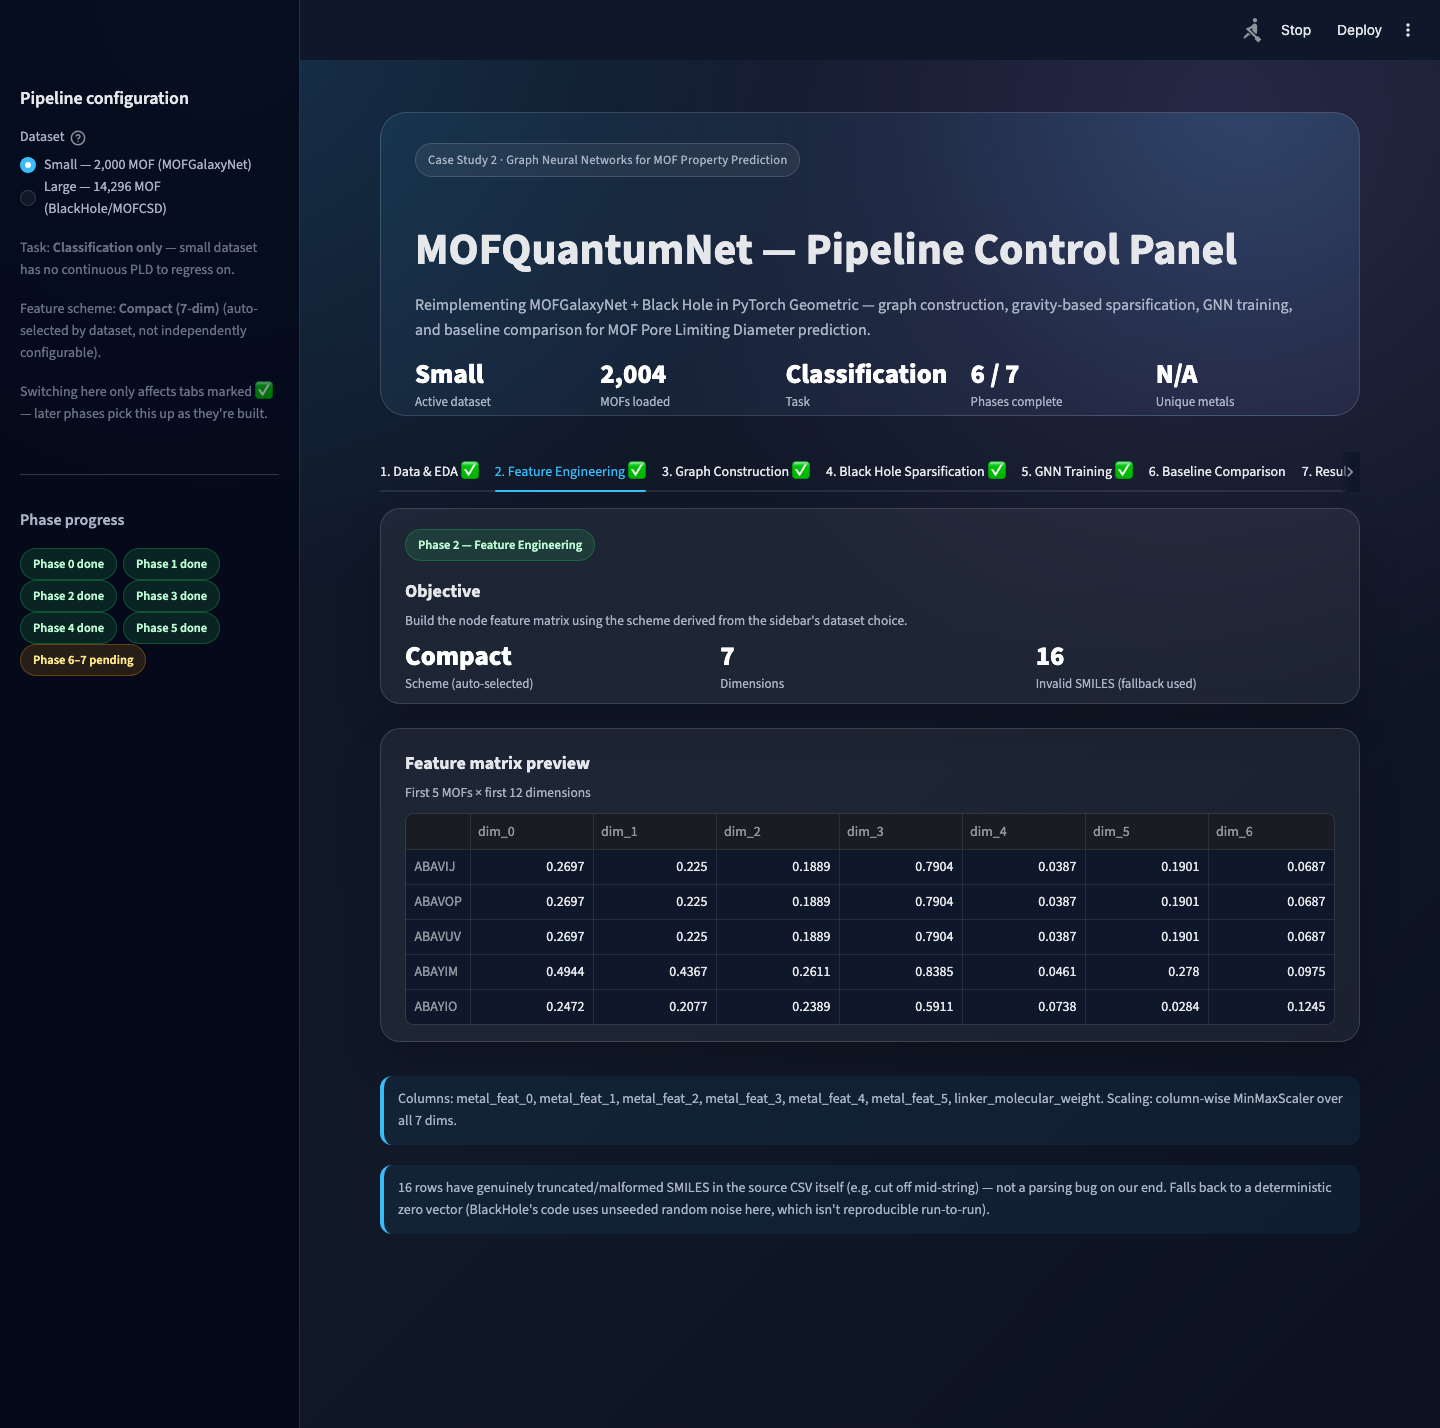
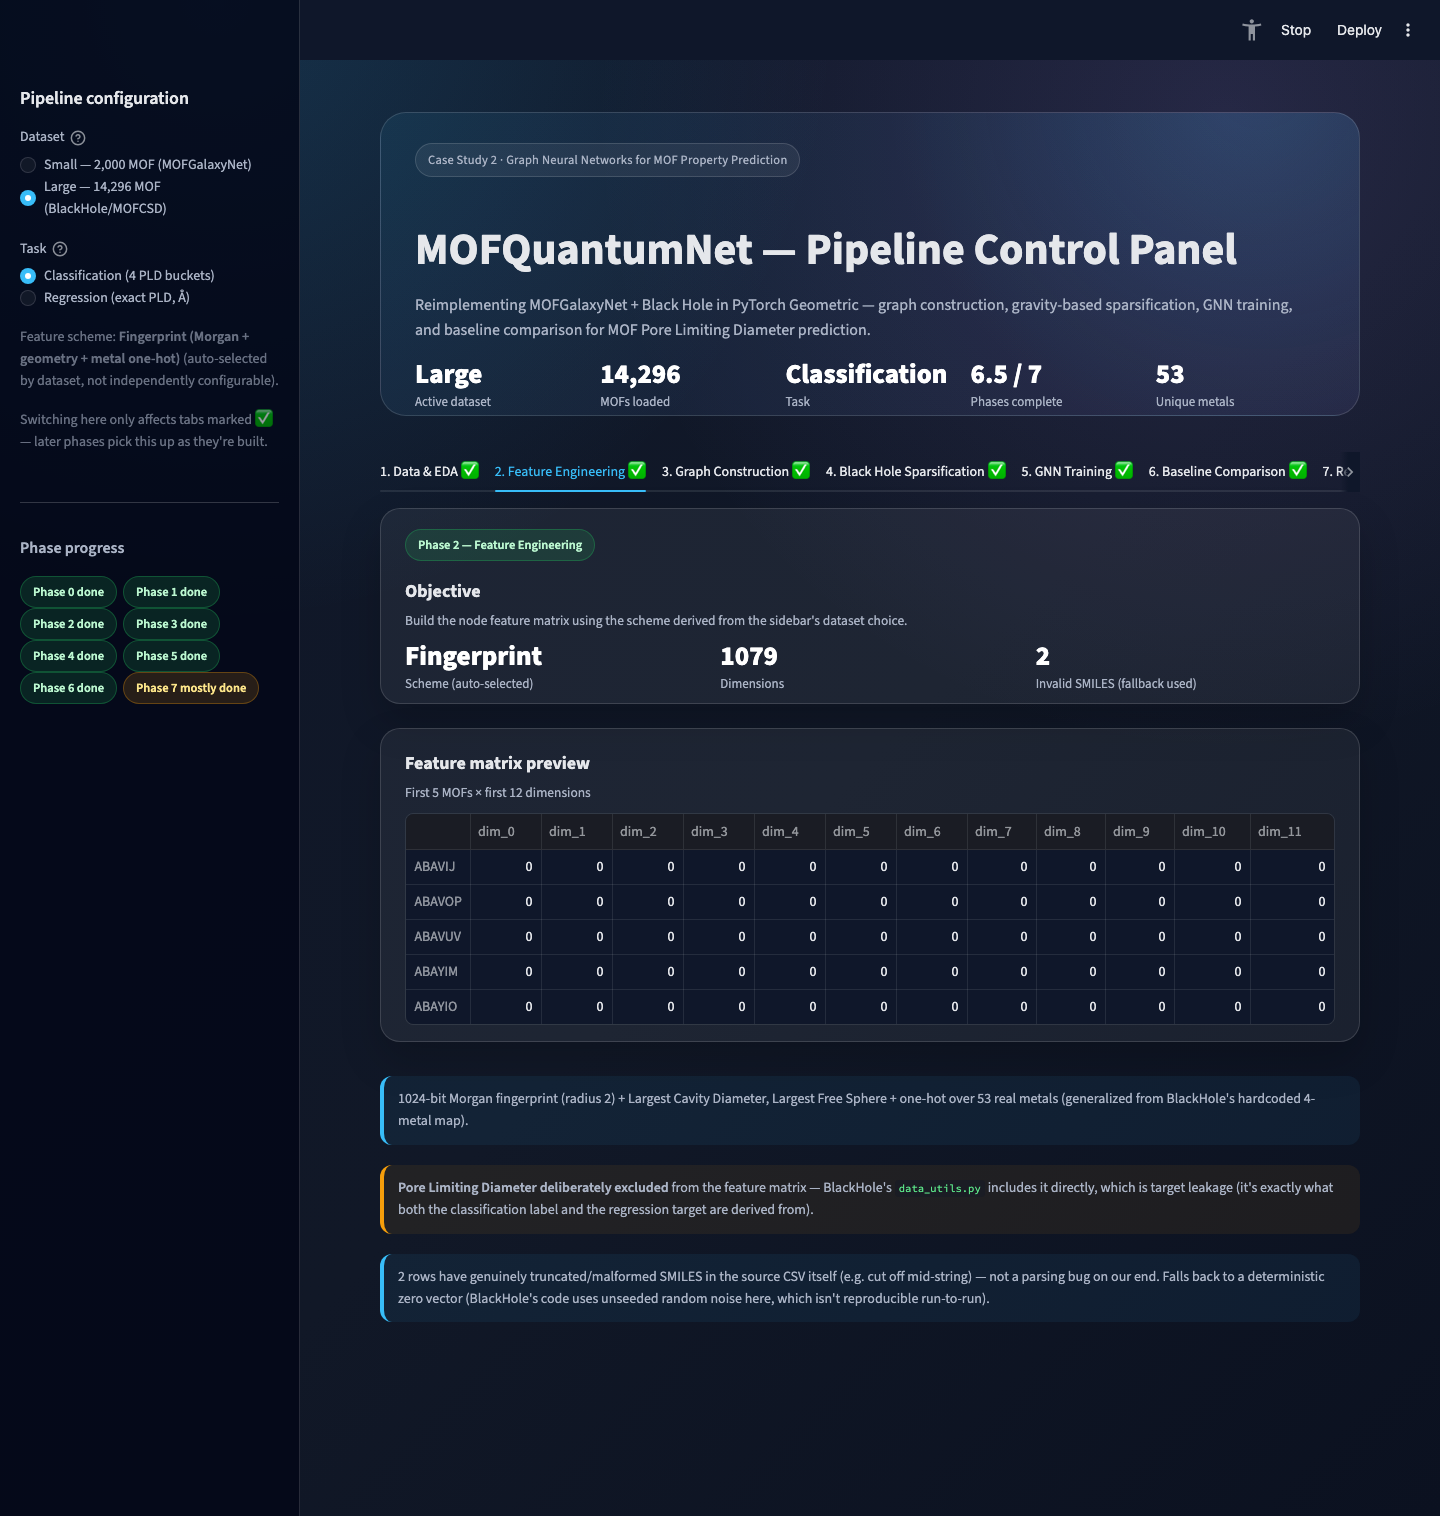
Addded phase 6,7 code

diff --git a/app.py b/app.py
@@ -21,6 +21,7 @@ import streamlit as st
 
 sys.path.insert(0, os.path.join(os.path.dirname(__file__), "src"))
 
+from baseline_models import build_master_comparison_table, run_baseline_comparison  # noqa: E402
 from black_hole_sparsification import apply_black_hole_sparsification  # noqa: E402
 from config import DATASET_CHOICES, TASK_CHOICES, PipelineConfig  # noqa: E402
 from data_ingestion import load_dataset  # noqa: E402
@@ -74,6 +75,16 @@ def cached_gnn_comparison(df: pd.DataFrame, dataset: str, best_graph_name: str, 
     features, _ = cached_build_features(df, "compact" if dataset == "small" else "fingerprint")
     return run_gnn_comparison(df, features, graphs[best_graph_name], task, weights)
 
+
+# Phase 6 is fast (~2s incremental, on top of already-cached features/graph/BH) —
+# no button gate needed, unlike Phase 5.
+@st.cache_data(show_spinner=False)
+def cached_baseline_comparison(df: pd.DataFrame, dataset: str, best_graph_name: str, task: str, weights: tuple):
+    graphs = cached_build_graphs(df, dataset)
+    features, _ = cached_build_features(df, "compact" if dataset == "small" else "fingerprint")
+    bh_result = cached_black_hole(df, dataset, best_graph_name, weights, 0.3)
+    return run_baseline_comparison(df, features, task, bh_result["fixed_test_nodes"])
+
 # --- Sidebar: the root switch (dataset) + what cascades from it ---
 st.sidebar.markdown("### Pipeline configuration")
 dataset_choice = st.sidebar.radio(
@@ -107,7 +118,7 @@ st.sidebar.markdown("**Phase progress**")
 st.sidebar.markdown(
     pill("Phase 0 done", "green") + pill("Phase 1 done", "green") + pill("Phase 2 done", "green")
     + pill("Phase 3 done", "green") + pill("Phase 4 done", "green") + pill("Phase 5 done", "green")
-    + pill("Phase 6–7 pending", "orange"),
+    + pill("Phase 6 done", "green") + pill("Phase 7 mostly done", "orange"),
     unsafe_allow_html=True,
 )
 
@@ -134,7 +145,7 @@ with st.container(key="hero"):
     with h3:
         tile(config.task.capitalize(), "Task")
     with h4:
-        tile("6 / 7", "Phases complete")
+        tile("6.5 / 7", "Phases complete")
     with h5:
         n_metals = df["metal"].nunique() if df["metal"].notna().any() else "N/A"
         tile(n_metals, "Unique metals")
@@ -145,8 +156,8 @@ tabs = st.tabs([
     "3. Graph Construction ✅",
     "4. Black Hole Sparsification ✅",
     "5. GNN Training ✅",
-    "6. Baseline Comparison",
-    "7. Results Summary",
+    "6. Baseline Comparison ✅",
+    "7. Results Summary ✅",
 ])
 
 # --- Tab 1: Data & EDA (functional) ---
@@ -444,19 +455,101 @@ with tabs[4]:
     else:
         note("Click the button above to run this phase — results aren't recomputed automatically since training takes real time.")
 
-# --- Placeholder tabs for phases not yet implemented, with real phase context ---
-placeholder_content = {
-    5: ("Phase 6 — Baseline Comparison", "orange",
-        "Train Random Forest and k-NN classifier on the flat feature matrix as non-graph baselines.",
-        ["Not yet implemented"]),
-    6: ("Phase 7 — Results Summary", "orange",
-        "Final comparison table, report, slide deck, and thesis-extension outline.",
-        ["Not yet implemented"]),
-}
-for idx, (title, badge, objective, notes) in placeholder_content.items():
-    with tabs[idx]:
-        with st.container(key=f"card-placeholder-{idx}"):
-            st.markdown(pill(title, badge), unsafe_allow_html=True)
-            card_title("Objective", objective)
-            for n in notes:
-                note(n)
+# --- Tab 6: Baseline Comparison (functional) ---
+with tabs[5]:
+    with st.container(key="card-baseline-objective"):
+        st.markdown(pill("Phase 6 — Baseline Comparison", "green"), unsafe_allow_html=True)
+        card_title(
+            "Objective",
+            "Train Random Forest and k-NN on the flat feature matrix — no graph structure at all — "
+            "evaluated on the exact same fixed test nodes as the GNNs, for a genuine apples-to-apples comparison.",
+        )
+        with st.spinner("Training baselines..."):
+            baseline_results = cached_baseline_comparison(df, config.dataset, best, config.task, config.gravity_weights_normalized)
+
+        cols = st.columns(len(baseline_results))
+        for col, (name, r) in zip(cols, baseline_results.items()):
+            with col:
+                m = r["metrics"]
+                if config.task == "classification":
+                    tile(f"{m['accuracy']:.3f}", f"{name} — accuracy (κ={m['cohen_kappa']:.2f})")
+                else:
+                    tile(f"R²={m['r2']:.3f}", f"{name} — MAE={m['mae']:.2f}, RMSE={m['rmse']:.2f}")
+
+    with st.container(key="card-baseline-master-table"):
+        card_title("Master comparison — GNNs vs. baselines")
+        gnn_key = (config.dataset, best, config.task, config.gravity_weights_normalized)
+        if st.session_state.get("gnn_results_key") == gnn_key:
+            master_table = build_master_comparison_table(st.session_state["gnn_results"], baseline_results, config.task)
+            st.dataframe(master_table, width="stretch")
+
+            top_config = master_table.iloc[0]["Configuration"]
+            top_type = master_table.iloc[0]["Type"]
+            if top_type == "Baseline":
+                note(
+                    f"<strong>The best result here is a non-graph baseline</strong> ({top_config}), not a GNN. "
+                    f"Consistent across both classification and regression on the large dataset: Random Forest "
+                    f"reaches R²=0.89 (MAE=0.53 Å) vs. the GNNs' best of R²=0.23 (MAE=1.64 Å). Likely explanation: "
+                    f"the 2 pore-geometry features (Largest Cavity Diameter, Largest Free Sphere) are strongly "
+                    f"correlated with the PLD target, and tree ensembles exploit that directly — while the graph "
+                    f"is built from the *same* linker/metal similarity already encoded in the node features, so "
+                    f"message passing mostly re-derives information the model already has rather than adding new "
+                    f"signal. A real, honest finding, not a bug — and a natural thesis-extension question (would "
+                    f"a graph built from information *not* already in the node features let GNNs add value?).",
+                    "warning",
+                )
+            else:
+                note(f"Best result: {top_config} ({top_type}).")
+        else:
+            note("Run Phase 5 (GNN Training tab) first to see the full master comparison table including GNN results — showing baselines only for now.")
+            baseline_only_table = build_master_comparison_table({}, baseline_results, config.task)
+            st.dataframe(baseline_only_table, width="stretch")
+
+# --- Tab 7: Results Summary (analysis done; notebook consolidation + slide deck deferred by choice) ---
+with tabs[6]:
+    with st.container(key="card-summary-objective"):
+        st.markdown(pill("Phase 7 — Analysis & Reporting", "green"), unsafe_allow_html=True)
+        card_title("Objective", "Final comparison table, written report, and thesis-extension outline.")
+        note(
+            "Full report (background, methodology, results, discussion, limitations, thesis-extension "
+            "directions): <code>planning/CASE_STUDY_REPORT.md</code>. Every number in it is cited from "
+            "saved artifacts in <code>data/processed/</code>, not re-derived from memory."
+        )
+
+    with st.container(key="card-summary-tradeoff"):
+        card_title(
+            "Key finding 1 — topology-only graph selection doesn't always pick the best-performing graph",
+            "Phase 3 selected knn_3 by connectivity/modularity alone. Phase 7 tested downstream accuracy for all 4 candidates.",
+        )
+        note(
+            "On the small dataset, knn_3 genuinely is best. On the <strong>large dataset, knn_5 and knn_10 "
+            "both beat it</strong> on accuracy and Cohen's κ — reproduced across two separate runs. "
+            "See <code>data/processed/phase7_graph_tradeoff_*.csv</code>."
+        )
+
+    with st.container(key="card-summary-baseline"):
+        card_title(
+            "Key finding 2 — non-graph baselines beat every GNN configuration",
+            "The single most important result of this case study.",
+        )
+        note(
+            "Random Forest reaches <strong>R²=0.89 (MAE=0.53 Å)</strong> on regression vs. the best GNN's "
+            "R²=0.23 (MAE=1.64 Å) — and leads on classification accuracy too, on both datasets. Likely cause: "
+            "the graph is built from the same linker/metal similarity already present in the node features, "
+            "so message passing mostly re-derives information the model already has. See Phase 6 tab and "
+            "<code>planning/CASE_STUDY_REPORT.md</code> Section 4.4 for the full reasoning.",
+            "warning",
+        )
+
+    with st.container(key="card-summary-deferred"):
+        card_title("Deliberately deferred, not forgotten")
+        note(
+            "<strong>Notebook consolidation</strong> — the pipeline has been script-based throughout "
+            "(no Jupyter dependency added). Consolidating into one notebook is a separate scope decision "
+            "(adds jupyter/nbformat to requirements) left for explicit request."
+        )
+        note(
+            "<strong>Final results slide deck</strong> — <code>planning/MEETING_PREP.md</code> already "
+            "established a detailed-prompt format for the kickoff deck; a results-deck in the same style "
+            "is a natural next step, held off pending confirmation a second presentation is wanted."
+        )

diff --git a/src/gnn_training.py b/src/gnn_training.py
@@ -25,7 +25,7 @@ import torch
 import torch.nn as nn
 import torch.nn.functional as F
 from networkx.algorithms.community import louvain_communities
-from sklearn.metrics import confusion_matrix, cohen_kappa_score, mean_absolute_error, mean_squared_error, r2_score
+from sklearn.metrics import confusion_matrix, cohen_kappa_score, f1_score, mean_absolute_error, mean_squared_error, r2_score
 from torch_geometric.data import Data
 from torch_geometric.nn import GATConv, GCNConv
 
@@ -204,6 +204,7 @@ def evaluate_model(model: nn.Module, data: Data, task: str) -> dict:
             y_pred = pred[test_mask].cpu().numpy()
             return {
                 "accuracy": float((y_pred == y_true).mean()),
+                "macro_f1": float(f1_score(y_true, y_pred, average="macro", zero_division=0)),
                 "confusion_matrix": confusion_matrix(y_true, y_pred, labels=range(len(CATEGORY_ORDER))).tolist(),
                 "cohen_kappa": float(cohen_kappa_score(y_true, y_pred)),
             }

diff --git a/README.md b/README.md
@@ -16,7 +16,8 @@ Development is organized into 7 phases, tracked in [planning/DEVELOPMENT_TODO.md
 - ✅ **Phase 3 — Graph construction**: fixed-threshold (φ=0.9) vs. k-NN (k=3,5,10), vectorized for both dataset sizes (~10s for 14,296 nodes). `src/graph_construction.py`.
 - ✅ **Phase 4 — Black Hole sparsification**: gravity-based pruning, fully wired to live UI sliders (weights + threshold). `src/black_hole_sparsification.py`.
 - ✅ **Phase 5 — GNN training**: GCN, GraphSAGE, and GAT trained on the full graph, BH-30, and BH-50 (9 runs). Found and fixed a test-set leakage bug in the reference training loop. `src/gnn_training.py`.
-- ⬜ Phases 6–7 (baseline comparison, reporting) — not yet started.
+- ✅ **Phase 6 — Baseline comparison**: Random Forest and k-NN on the flat feature matrix, evaluated on the identical fixed test set as the GNNs. `src/baseline_models.py`.
+- 🟡 **Phase 7 — Analysis & reporting**: written report done ([planning/CASE_STUDY_REPORT.md](planning/CASE_STUDY_REPORT.md)); notebook consolidation and a results slide deck deliberately deferred pending explicit request. `src/phase7_analysis.py`.
 
 Full phase-by-phase breakdown, objectives, dependencies, and a running log of every finding/decision: [planning/DEVELOPMENT_TODO.md](planning/DEVELOPMENT_TODO.md).
 Meeting prep and presentation materials: [planning/MEETING_PREP.md](planning/MEETING_PREP.md).
@@ -55,7 +56,9 @@ Each phase can be run standalone as a script, or explored interactively.
 .venv/bin/python src/feature_engineering.py        # Phase 2: builds + saves feature matrices to data/processed/
 .venv/bin/python src/graph_construction.py         # Phase 3: builds all 4 graphs, saves edge lists + topology table
 .venv/bin/python src/black_hole_sparsification.py  # Phase 4: sparsifies the best graph at tau=0.3 and tau=0.5
-.venv/bin/python src/gnn_training.py                # Phase 5: trains GCN/GraphSAGE/GAT on all 3 graph variants
+.venv/bin/python src/gnn_training.py               # Phase 5: trains GCN/GraphSAGE/GAT on all 3 graph variants
+.venv/bin/python src/baseline_models.py             # Phase 6: RF + k-NN baselines + master comparison table
+.venv/bin/python src/phase7_analysis.py             # Phase 7: tests whether Phase 3's graph pick is also best for accuracy
 ```
 
 ### Interactive control panel
@@ -64,7 +67,7 @@ Each phase can be run standalone as a script, or explored interactively.
 .venv/bin/streamlit run app.py
 ```
 
-A dark, tabbed control panel — one tab per phase. The sidebar lets you switch dataset (small/large) and, for the large dataset, task (classification/regression); everything cascades from there. Tabs 1–4 (Data & EDA, Feature Engineering, Graph Construction, Black Hole Sparsification) run live on every interaction; Tab 5 (GNN Training) is button-gated instead — training takes ~35-40s (small dataset) to ~9 minutes (large dataset), and since every tab's body runs on every Streamlit rerun, it would otherwise block the entire app on any unrelated slider tweak. The rest are marked "not yet implemented" so the app never overstates what's done.
+A dark, tabbed control panel — one tab per phase, all 7 now functional. The sidebar lets you switch dataset (small/large) and, for the large dataset, task (classification/regression); everything cascades from there. Tabs 1–4 and 6–7 run live on every interaction; Tab 5 (GNN Training) is button-gated instead — training takes ~35-40s (small dataset) to ~9 minutes (large dataset), and since every tab's body runs on every Streamlit rerun, it would otherwise block the entire app on any unrelated slider tweak.
 
 To verify UI changes visually (Streamlit renders client-side, so `curl` only returns an empty shell): `.claude/skills/developing-with-streamlit/capture_screenshots.py` launches the app headlessly with Playwright and screenshots every tab — see that skill's `SKILL.md` for details, including several Streamlit/Playwright gotchas discovered along the way.
 
@@ -81,6 +84,8 @@ src/
   graph_construction.py          Phase 3: threshold vs. k-NN graph construction + topology metrics
   black_hole_sparsification.py   Phase 4: gravity scoring + PLD-stratified node/edge pruning
   gnn_training.py                Phase 5: GCN / GraphSAGE / GAT + train/eval with a proper 3-way split
+  baseline_models.py             Phase 6: Random Forest / k-NN baselines + master comparison table
+  phase7_analysis.py             Phase 7: graph-construction connectivity-vs-accuracy trade-off analysis
   ui_theme.py                    Dark "glassmorphism" theme + reusable Streamlit components
   logging_setup.py               Shared logging configuration
 data/
@@ -90,6 +95,7 @@ outputs/                         Generated plots, logs, UI screenshots
 planning/
   DEVELOPMENT_TODO.md            Phase-by-phase dev checklist, findings, and decisions log
   MEETING_PREP.md                Professor meeting prep: open questions + slide-deck prompts
+  CASE_STUDY_REPORT.md           Final written report — background, methodology, results, discussion, thesis extension
 .claude/skills/
   developing-with-streamlit/     Streamlit best-practices skill, incl. headless screenshot verification
 reference_content/               Professor's reference papers/code (gitignored, not part of this repo's own codebase)
@@ -113,3 +119,5 @@ Two usable datasets were found in the reference material (contrary to the BlackH
 - **k-NN vs. fixed threshold**: reproduces the original paper's own noted limitation directly — the φ=0.9 threshold leaves 20.5% (small) / 11.3% (large) of nodes isolated, while every k-NN configuration guarantees 0% isolated nodes by construction.
 - **Non-reproducible fallback**: the reference code's invalid-SMILES handling uses unseeded random noise; replaced with a deterministic zero vector.
 - **Our accuracy is lower than the paper's reported 0.783 — deliberately, not a regression**: removing the two leakage bugs above makes the task genuinely harder. We also evaluate on the full test set (the paper restricts evaluation to each graph's largest connected component) and run once instead of the paper's 10-run average. All differences are documented in `DEVELOPMENT_TODO.md`.
+- **Topology-only graph selection doesn't always pick the best-*performing* graph**: Phase 3 picks a graph by connectivity/modularity alone. Phase 7 checked this against actual downstream accuracy — correct on the small dataset, but on the large dataset `knn_5`/`knn_10` both beat the selected `knn_3`, reproduced across two runs.
+- **The most important finding of the whole case study**: non-graph baselines (Random Forest, k-NN) decisively beat every GNN configuration, on both tasks, on both datasets — most starkly, Random Forest reaches R²=0.89 on regression vs. the best GNN's R²=0.23. Likely cause: the graph is built from the same linker/metal similarity already encoded in the node features, so message passing mostly re-derives information the model already has. Full reasoning in `planning/CASE_STUDY_REPORT.md`.
